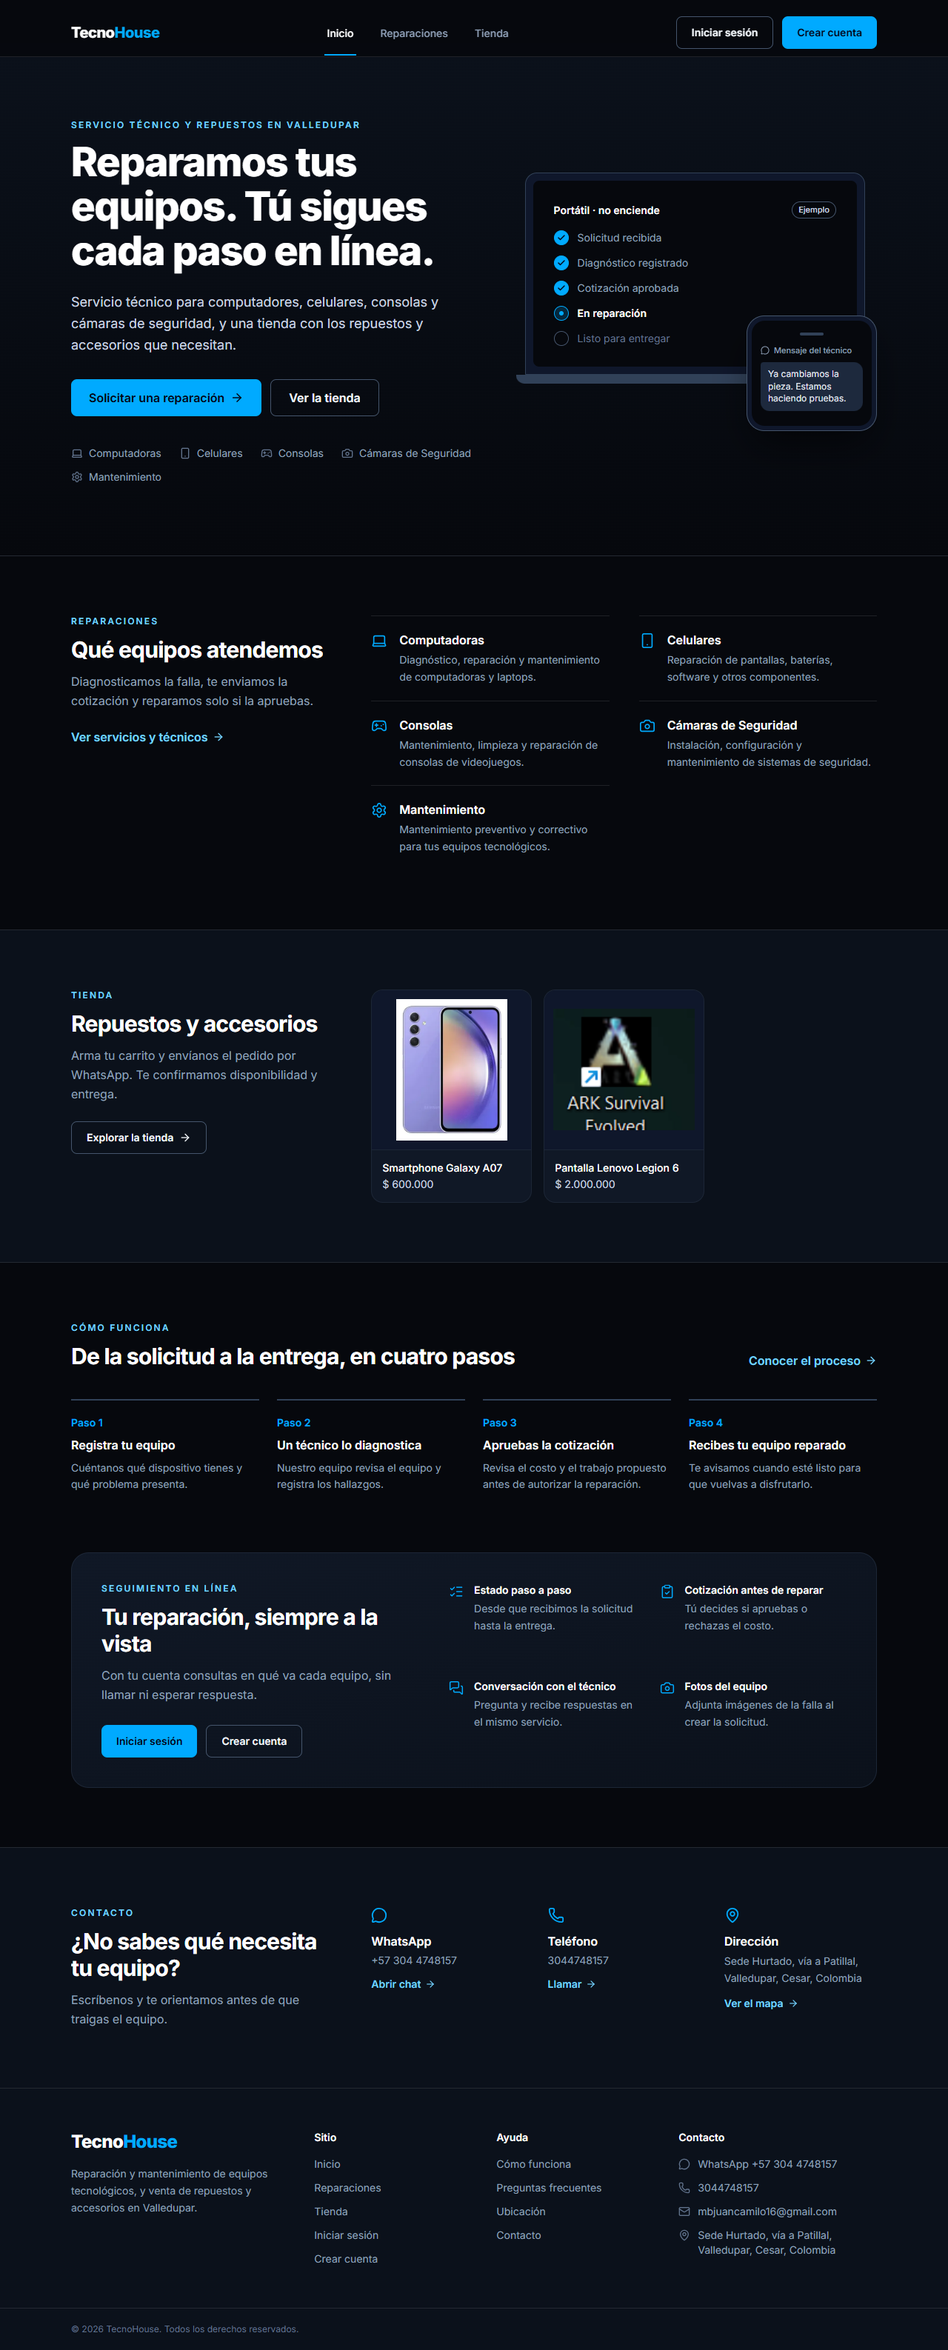
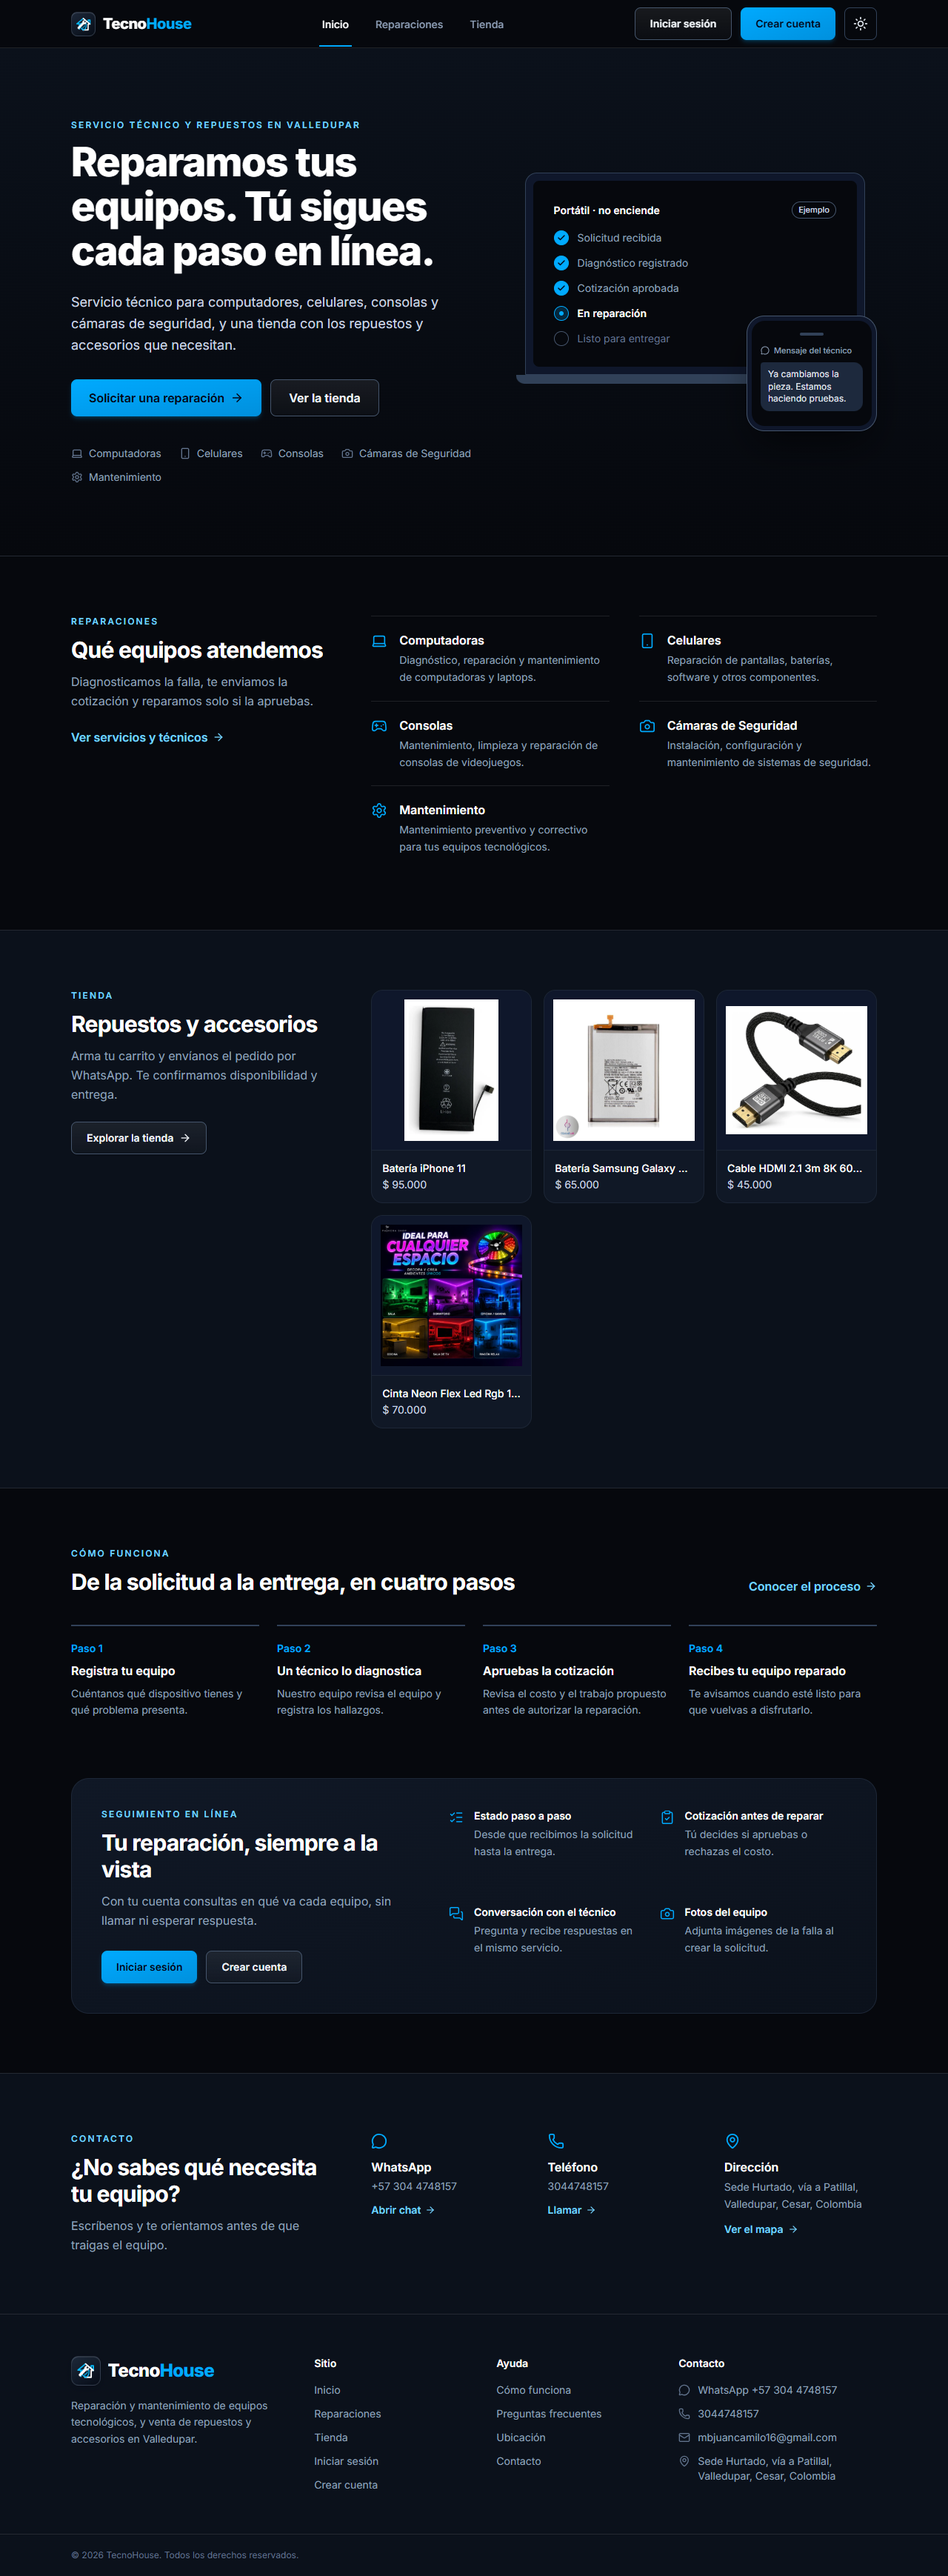
docs: actualizar el readme y sus capturas

diff --git a/README.md b/README.md
@@ -17,6 +17,9 @@ TecnoHouse ordena ese proceso:
 - El **cliente** registra sus equipos, pide una reparación con fotos, aprueba o rechaza la cotización y sigue cada paso en línea.
 - El **técnico** recibe las solicitudes, diagnostica, cotiza y avanza el servicio hasta terminarlo.
 - El **administrador** supervisa los servicios, gestiona técnicos y clientes, administra la tienda y consulta los indicadores del negocio.
+- El **gestor de tienda** atiende la tienda: productos, inventario, pedidos y reportes, sin acceso a las reparaciones.
+
+En la tienda, el cliente arma su carrito, registra el pedido con los datos de entrega y lo paga en línea con Wompi.
 
 ## Servicios que ofrece el negocio
 
@@ -45,22 +48,38 @@ Durante todo el proceso, cliente y técnico pueden escribirse en la conversació
 
 ## Capturas
 
-**Tienda**: catálogo con categorías, buscador y carrito.
+**Tienda**: catálogo con categorías, buscador, filtro de disponibles y orden.
 
 ![Tienda](docs/capturas/tienda.png)
+
+**Carrito**: el cliente revisa sus productos, escribe los datos de entrega (departamento y ciudad se eligen de una lista) y confirma el pedido. Después lo paga en el checkout de Wompi.
+
+![Carrito con los datos de entrega](docs/capturas/carrito.png)
+
+**Detalle de un pedido**: productos, total, datos de entrega y estado del pago, en el panel del cliente.
+
+![Detalle de un pedido en el panel del cliente](docs/capturas/detalle-pedido.png)
 
 **Reparaciones**: cómo pedir una reparación y servicios que ofrece el negocio.
 
 ![Servicios de reparación](docs/capturas/reparaciones.png)
 
-**Panel del técnico**: detalle de un servicio con su progreso, el próximo paso, la falla reportada y la conversación con el cliente.
+**Panel del técnico**: detalle de un servicio con su progreso, el próximo paso, la falla reportada, la conversación con el cliente, el diagnóstico y la cotización.
 
-![Detalle de un servicio en el panel del técnico](docs/capturas/servicio-tecnico.png)
+<p align="center">
+  <img src="docs/capturas/servicio-tecnico.png" alt="Detalle de un servicio en el panel del técnico" width="700">
+</p>
 
-**Panel del administrador**: dashboard con ingresos, clientes, técnicos, servicios por estado y tasa de cotizaciones aprobadas.
+**Panel del administrador**: dashboard con ingresos de reparaciones y de la tienda, clientes, técnicos, servicios por estado, cotizaciones aprobadas, inventario y pedidos.
 
 <p align="center">
   <img src="docs/capturas/dashboard.png" alt="Dashboard del administrador" width="700">
+</p>
+
+**Panel del gestor de tienda**: pedidos con su estado y el del pago por separado, filtros y acciones. Avisa cuando un pago aprobado necesita revisión.
+
+<p align="center">
+  <img src="docs/capturas/gestor-pedidos.png" alt="Pedidos en el panel del gestor de tienda" width="700">
 </p>
 
 ## Funcionalidades
@@ -74,7 +93,7 @@ Durante todo el proceso, cliente y técnico pueden escribirse en la conversació
 | `/tienda` | Catálogo con categorías, buscador, filtro de disponibles y orden por precio, nombre o fecha. |
 | `/tienda/:id` | Detalle del producto, productos relacionados y consulta por WhatsApp. |
 
-La tienda tiene un carrito lateral que se guarda en el navegador y envía el pedido por WhatsApp con la lista de productos y el total. No permite pedir más unidades que el stock disponible. Cada producto admite hasta ocho fotos; en la ficha se puede cambiar entre ellas y ampliar la imagen con la lupa.
+La tienda tiene un carrito lateral que se guarda en el navegador y no permite pedir más unidades que el stock disponible. Para confirmar el pedido hay que iniciar sesión (el carrito se conserva) y escribir los datos de entrega. TecnoHouse calcula el total, y el cliente puede pagarlo en el checkout de Wompi o avisar por WhatsApp. Cada producto admite hasta ocho fotos; en la ficha se puede cambiar entre ellas y ampliar la imagen con la lupa.
 
 ### Cuentas
 
@@ -87,6 +106,7 @@ La tienda tiene un carrito lateral que se guarda en el navegador y envía el ped
 - Resumen de sus solicitudes activas.
 - Registro de dispositivos: computadores, celulares y consolas.
 - Solicitudes de reparación con fotos, seguimiento del estado, conversación con el técnico, cotización y calificación.
+- Mis pedidos: estado del pedido y del pago, detalle con los datos de entrega y pago o nuevo intento con Wompi.
 - Perfil.
 
 ### Panel del técnico (`/tecnico`)
@@ -129,6 +149,7 @@ Todos los paneles reciben avisos en tiempo real en el menú de notificaciones.
 | Íconos | lucide-react |
 | Compilación | Vite |
 | Backend | ASP.NET Core y Supabase: API, autenticación, PostgreSQL, almacenamiento y Realtime |
+| Pagos | Wompi (checkout embebido, en Sandbox para desarrollo) |
 | Revisión de código | oxlint |
 
 ## Arquitectura
